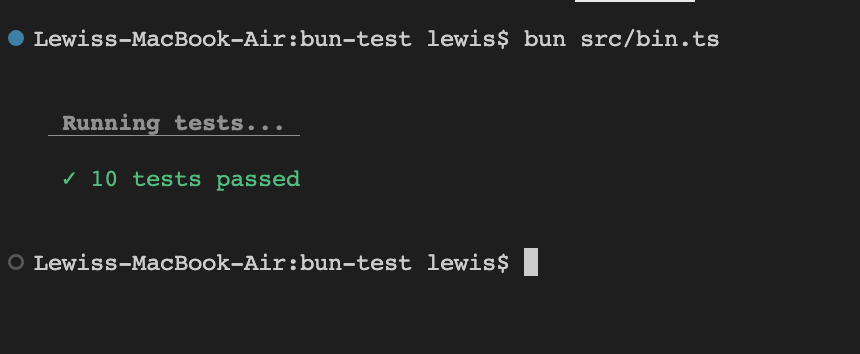
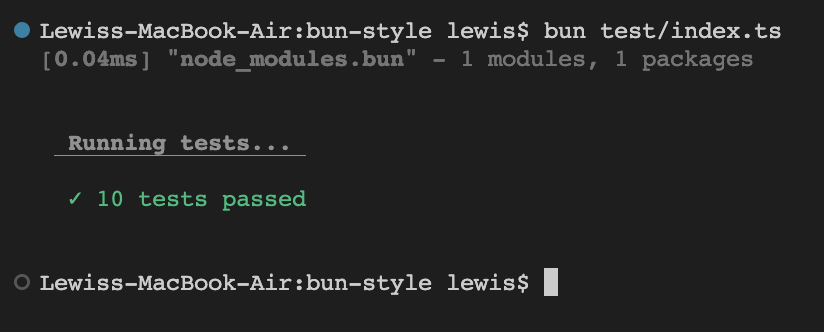
chore: touching up

diff --git a/test/index.ts b/test/index.ts
@@ -1,0 +1,9 @@
+import { style } from "../src";
+
+console.log(
+  "\n\n",
+  style(" Running tests... ", ["bold", "underline", "grey"]),
+  "\n\n",
+  style(" ✓ 10 tests passed", ["green"]),
+  "\n\n",
+);
